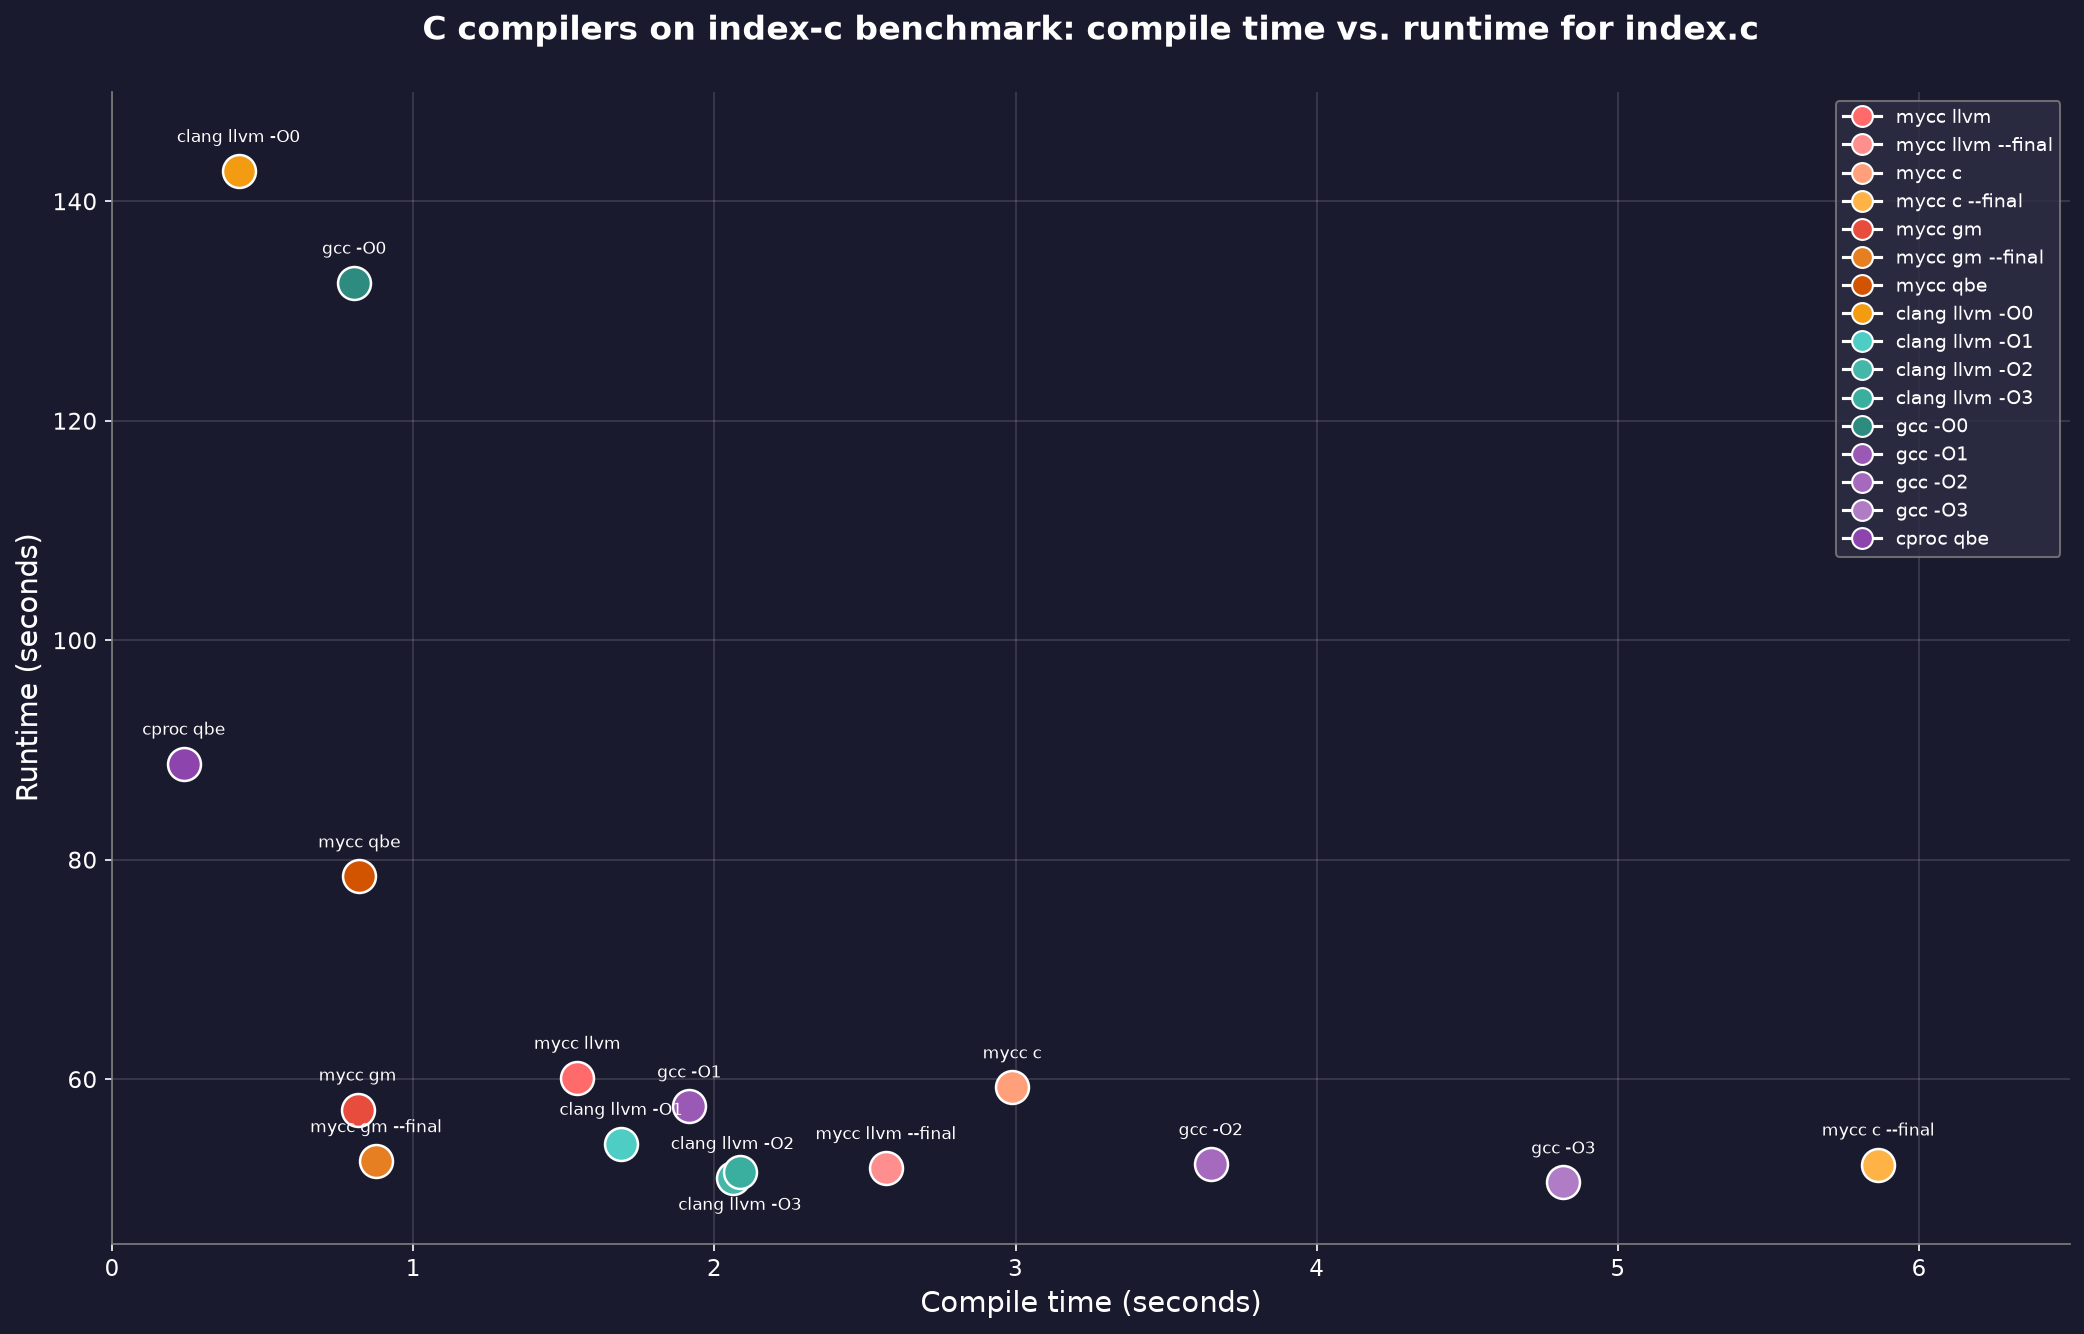
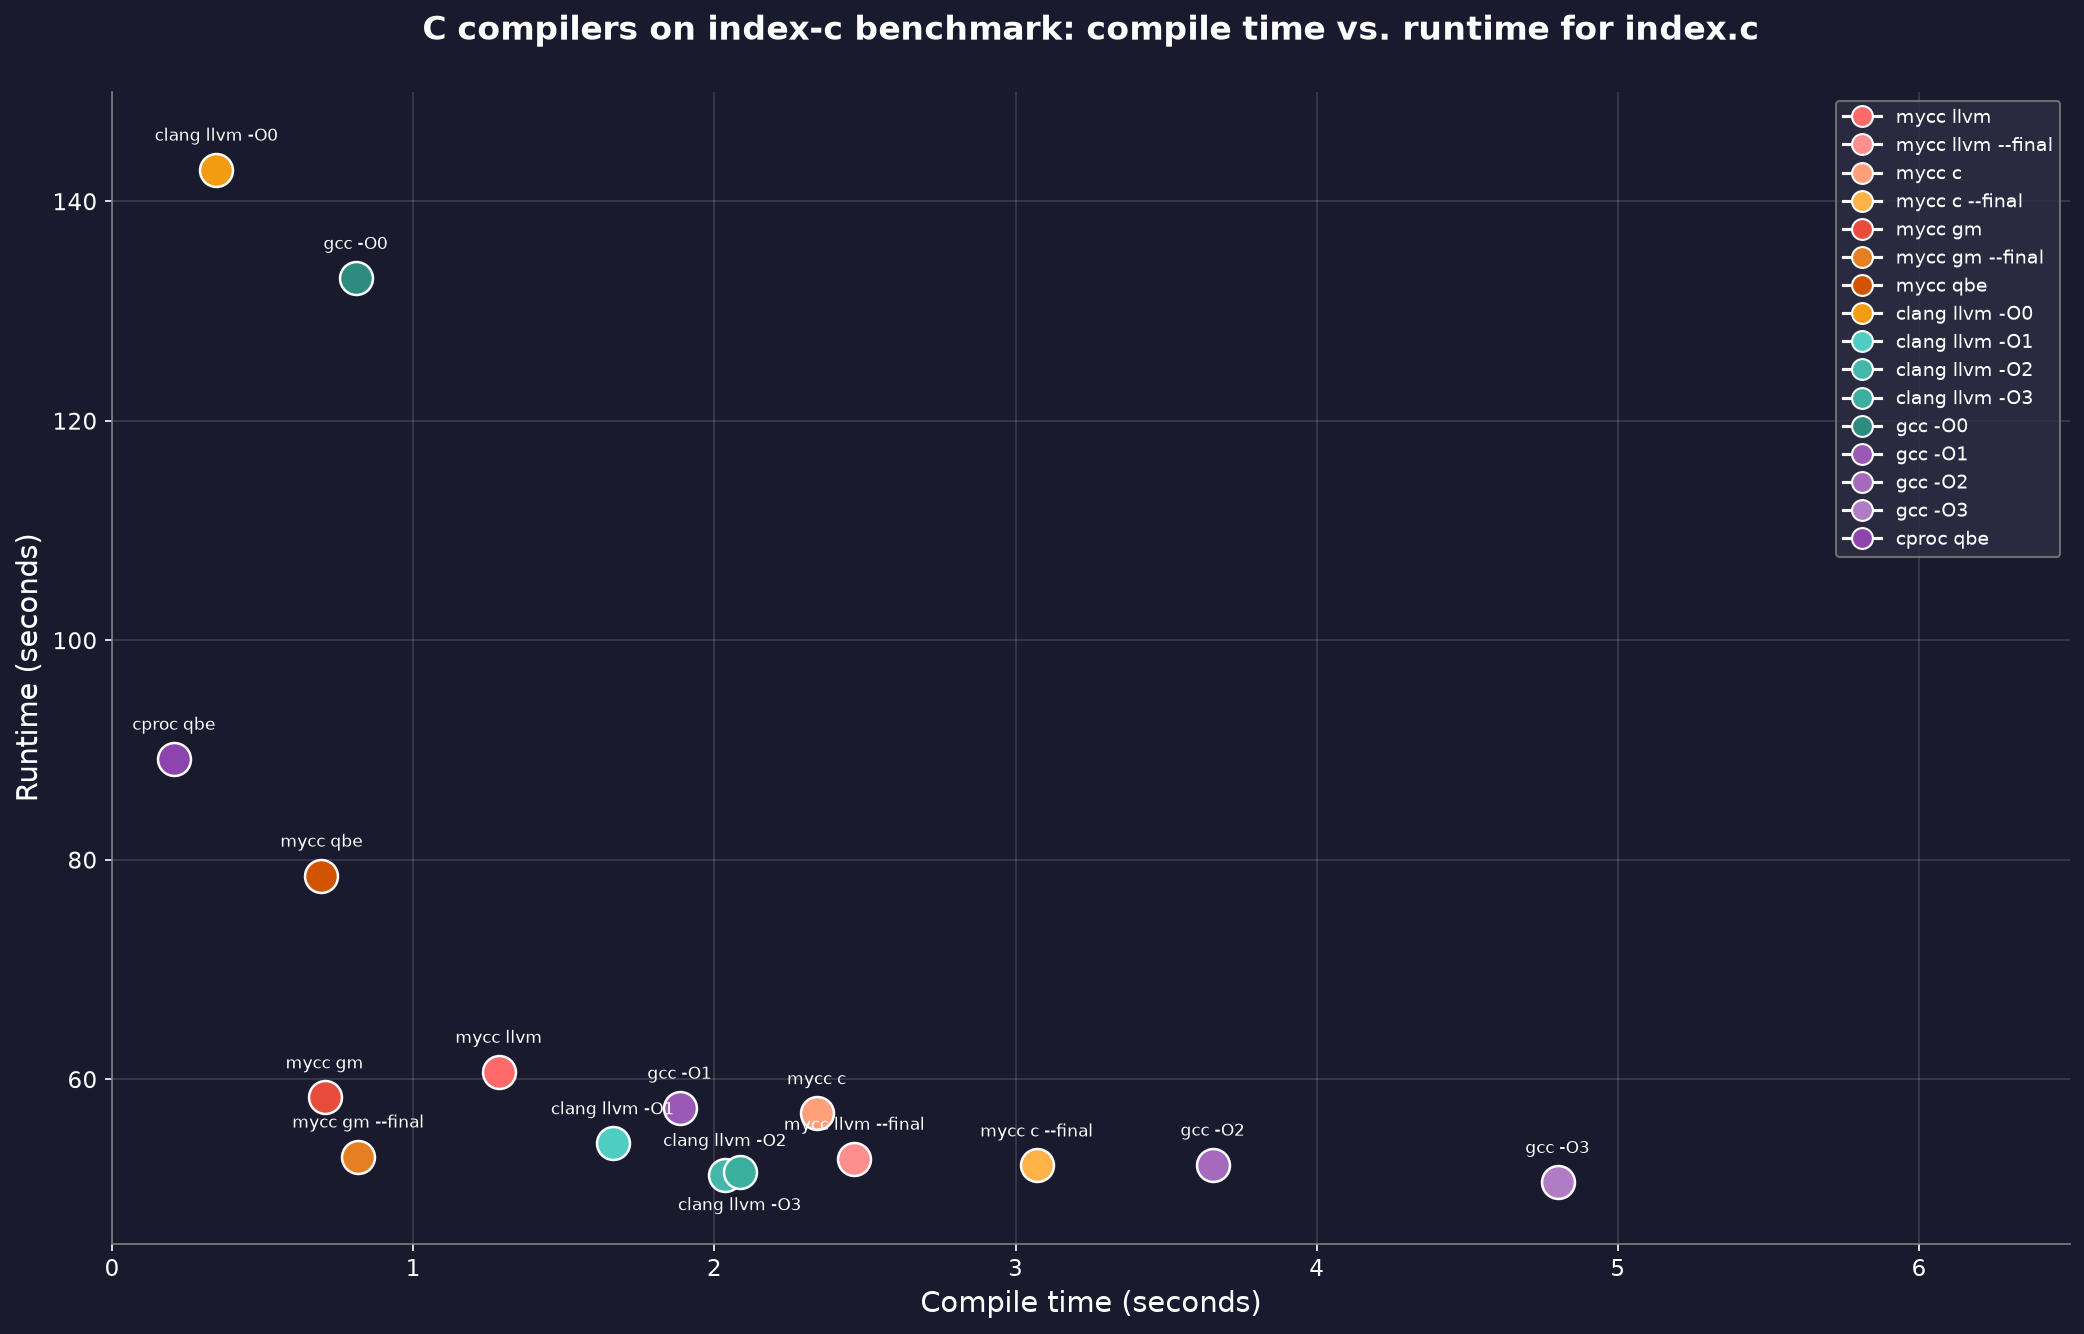
update

diff --git a/plot1.py b/plot1.py
@@ -4,22 +4,22 @@ from matplotlib.lines import Line2D
 markdown = """
 | Compiler | Backend | Flags | Compile (s) | Run (s) |
 |----------|---------|-------|-------------|---------|
-| mycc | llvm |  | 1.5451 | 60.1436 |
-| mycc | llvm | --final | 2.5695 | 51.9172 |
-| mycc | c |  | 2.9886 | 59.2757 |
-| mycc | c | --final | 5.8647 | 52.2412 |
-| mycc | gm |  | 0.8156 | 57.2475 |
-| mycc | gm | --final | 0.8767 | 52.5471 |
-| mycc | qbe |  | 0.8204 | 78.4971 |
-| clang | llvm | -O0 | 0.4201 | 142.773 |
-| clang | llvm | -O1 | 1.6904 | 54.1242 |
-| clang | llvm | -O2 | 2.0602 | 51.0166 |
-| clang | llvm | -O3 | 2.085 | 51.5749 |
-| gcc | - | -O0 | 0.8041 | 132.5994 |
-| gcc | - | -O1 | 1.9168 | 57.5374 |
-| gcc | - | -O2 | 3.6483 | 52.2808 |
-| gcc | - | -O3 | 4.8191 | 50.6065 |
-| cproc | qbe |  | 0.2372 | 88.7688 |
+| mycc | llvm |  | 1.2841 | 60.6917 |
+| mycc | llvm | --final | 2.4648 | 52.7678 |
+| mycc | c |  | 2.339 | 56.9229 |
+| mycc | c | --final | 3.0701 | 52.1554 |
+| mycc | gm |  | 0.7056 | 58.3647 |
+| mycc | gm | --final | 0.8172 | 52.9674 |
+| mycc | qbe |  | 0.6948 | 78.5655 |
+| clang | llvm | -O0 | 0.3466 | 142.9005 |
+| clang | llvm | -O1 | 1.662 | 54.1817 |
+| clang | llvm | -O2 | 2.0348 | 51.293 |
+| clang | llvm | -O3 | 2.084 | 51.548 |
+| gcc | - | -O0 | 0.8089 | 133.0356 |
+| gcc | - | -O1 | 1.8844 | 57.4204 |
+| gcc | - | -O2 | 3.6546 | 52.2313 |
+| gcc | - | -O3 | 4.7995 | 50.6496 |
+| cproc | qbe |  | 0.2044 | 89.2181 |
 """
 
 lines = markdown.strip().split('\n')

diff --git a/plot2.py b/plot2.py
@@ -4,17 +4,17 @@ from matplotlib.lines import Line2D
 markdown = """
 | Compiler | Backend | Flags | Compile (s) | Run (s) |
 |----------|---------|-------|-------------|---------|
-| myc | llvm |  | 0.9388 | 60.3338 |
-| myc | llvm | --final | 2.1202 | 51.9244 |
-| myc | c |  | 2.4502 | 59.1295 |
-| myc | c | --final | 5.4218 | 52.0605 |
-| myc | gm |  | 0.3641 | 57.1806 |
-| myc | gm | --final | 0.4604 | 52.4984 |
-| myc | qbe |  | 0.3503 | 78.3457 |
-| clang | llvm | -O0 | 0.3036 | 139.0683 |
-| clang | llvm | -O1 | 1.4524 | 54.2433 |
-| clang | llvm | -O2 | 1.8051 | 52.0981 |
-| clang | llvm | -O3 | 1.8923 | 51.5936 |
+| myc | llvm |  | 0.9457 | 60.5432 |
+| myc | llvm | --final | 2.122 | 51.8063 |
+| myc | c |  | 1.9999 | 56.9043 |
+| myc | c | --final | 2.7125 | 52.7507 |
+| myc | gm |  | 0.3644 | 58.3612 |
+| myc | gm | --final | 0.4718 | 52.9375 |
+| myc | qbe |  | 0.3517 | 77.6754 |
+| clang | llvm | -O0 | 0.1989 | 139.7218 |
+| clang | llvm | -O1 | 1.4512 | 54.3985 |
+| clang | llvm | -O2 | 1.8116 | 52.1607 |
+| clang | llvm | -O3 | 1.8923 | 51.5508 |
 """
 
 lines = markdown.strip().split('\n')

diff --git a/README.md b/README.md
@@ -20,11 +20,11 @@ docker run --rm myc-benchmarks sh -c 'for t in clang gcc cproc qbe cppgm myc-llv
 ```
 clang: clang version 23.1.5
 gcc: gcc (GCC) 16.2.1 20260810
-cppgm: cppgm 0.10.0 (host configuration: g++)
-myc-llvm: myc 0.12.3-faed679 LLVM 23.1.5 (https://github.com/kostya/myc)
-myc-qbe: myc 0.12.3-faed679 QBE fab6d40 (https://github.com/kostya/myc)
-myc-c: myc 0.12.3-faed679 C(clang version 23.1.5) (https://github.com/kostya/myc)
-myc-gm: myc 0.12.3-faed679 GM v0.10.0 (https://github.com/kostya/myc)
+cppgm: cppgm 0.10.3 (host configuration: g++)
+myc-llvm: myc 0.12.3-6ae1303 LLVM 23.1.5 (https://github.com/kostya/myc)
+myc-qbe: myc 0.12.3-6ae1303 QBE fab6d40 (https://github.com/kostya/myc)
+myc-c: myc 0.12.3-6ae1303 C(clang version 23.1.5) (https://github.com/kostya/myc)
+myc-gm: myc 0.12.3-6ae1303 GM v0.10.3 (https://github.com/kostya/myc)
 ```
 
 # 1. C compilers on index-c: (clang, gcc, mycc, cproc)
@@ -39,22 +39,22 @@ ruby run.rb
 
 | Compiler | Backend | Flags | Compile (s) | Run (s) |
 |----------|---------|-------|-------------|---------|
-| mycc | llvm |  | 1.3718 | 60.3906 |
-| mycc | llvm | --final | 2.5505 | 52.0201 |
-| mycc | c |  | 2.4711 | 56.3605 |
-| mycc | c | --final | 3.1584 | 51.7813 |
-| mycc | gm |  | 0.7872 | 58.3142 |
-| mycc | gm | --final | 0.8829 | 53.052 |
-| mycc | qbe |  | 0.7822 | 78.6111 |
-| clang | llvm | -O0 | 0.3464 | 143.7007 |
-| clang | llvm | -O1 | 1.6591 | 54.0613 |
-| clang | llvm | -O2 | 2.0215 | 51.1898 |
-| clang | llvm | -O3 | 2.0873 | 51.5187 |
-| gcc | - | -O0 | 0.8073 | 133.0161 |
-| gcc | - | -O1 | 1.8845 | 57.435 |
-| gcc | - | -O2 | 3.6576 | 52.4008 |
-| gcc | - | -O3 | 4.7835 | 50.7824 |
-| cproc | qbe |  | 0.204 | 89.0974 |
+| mycc | llvm |  | 1.2841 | 60.6917 |
+| mycc | llvm | --final | 2.4648 | 52.7678 |
+| mycc | c |  | 2.339 | 56.9229 |
+| mycc | c | --final | 3.0701 | 52.1554 |
+| mycc | gm |  | 0.7056 | 58.3647 |
+| mycc | gm | --final | 0.8172 | 52.9674 |
+| mycc | qbe |  | 0.6948 | 78.5655 |
+| clang | llvm | -O0 | 0.3466 | 142.9005 |
+| clang | llvm | -O1 | 1.662 | 54.1817 |
+| clang | llvm | -O2 | 2.0348 | 51.293 |
+| clang | llvm | -O3 | 2.084 | 51.548 |
+| gcc | - | -O0 | 0.8089 | 133.0356 |
+| gcc | - | -O1 | 1.8844 | 57.4204 |
+| gcc | - | -O2 | 3.6546 | 52.2313 |
+| gcc | - | -O3 | 4.7995 | 50.6496 |
+| cproc | qbe |  | 0.2044 | 89.2181 |
 
 ![plot](plot1.png)
 
@@ -71,17 +71,17 @@ ruby run.rb
 
 | Compiler | Backend | Flags | Compile (s) | Run (s) |
 |----------|---------|-------|-------------|---------|
-| myc | llvm |  | 0.9525 | 60.3663 |
-| myc | llvm | --final | 2.1375 | 52.1098 |
-| myc | c |  | 2.0165 | 56.3654 |
-| myc | c | --final | 2.7407 | 52.0036 |
-| myc | gm |  | 0.3764 | 58.2623 |
-| myc | gm | --final | 0.471 | 53.3131 |
-| myc | qbe |  | 0.3589 | 78.3446 |
-| clang | llvm | -O0 | 0.1991 | 138.8511 |
-| clang | llvm | -O1 | 1.4592 | 54.3862 |
-| clang | llvm | -O2 | 1.8153 | 52.386 |
-| clang | llvm | -O3 | 1.891 | 51.587 |
+| myc | llvm |  | 0.9457 | 60.5432 |
+| myc | llvm | --final | 2.122 | 51.8063 |
+| myc | c |  | 1.9999 | 56.9043 |
+| myc | c | --final | 2.7125 | 52.7507 |
+| myc | gm |  | 0.3644 | 58.3612 |
+| myc | gm | --final | 0.4718 | 52.9375 |
+| myc | qbe |  | 0.3517 | 77.6754 |
+| clang | llvm | -O0 | 0.1989 | 139.7218 |
+| clang | llvm | -O1 | 1.4512 | 54.3985 |
+| clang | llvm | -O2 | 1.8116 | 52.1607 |
+| clang | llvm | -O3 | 1.8923 | 51.5508 |
 
 ![plot](plot2.png)
 
@@ -98,16 +98,16 @@ ruby run.rb
 | IR | Compiler | IR size, Kb | Compile time | Run time |
 |:---------:|:---------:|:---------:|:---------:|:---------:|
 | llvm-ll | clang(-O3) | 1529 | 1173ms | 636ms |
-| myc | myc-llvm(default) | 486 | 235ms | 685ms |
-| myc | myc-llvm(final) | 486 | 1169ms | 622ms |
-| qbe-ssa | qbe + clang(as+linker) | 345 | 80ms + 51ms | 813ms |
-| myc | myc-qbe(default) | 486 | 511ms | 852ms |
-| c | clang(-O3) | 128 | 1237ms | 627ms |
-| myc | myc-c(default) | 486 | 1451ms | 635ms |
-| myc | myc-c(final) | 486 | 1649ms | 624ms |
-| lowir | cppgm(-O3) | 1157 | 148ms | 649ms |
-| myc | myc-gm(default) | 486 | 138ms | 682ms |
-| myc | myc-gm(final) | 486 | 186ms | 675ms |
+| myc | myc-llvm(default) | 486 | 233ms | 683ms |
+| myc | myc-llvm(final) | 486 | 1172ms | 622ms |
+| qbe-ssa | qbe + clang(as+linker) | 345 | 82ms + 52ms | 808ms |
+| myc | myc-qbe(default) | 486 | 464ms | 852ms |
+| c | clang(-O3) | 128 | 1235ms | 623ms |
+| myc | myc-c(default) | 486 | 1457ms | 632ms |
+| myc | myc-c(final) | 486 | 1634ms | 627ms |
+| lowir | cppgm(-O3) | 1157 | 151ms | 656ms |
+| myc | myc-gm(default) | 486 | 136ms | 682ms |
+| myc | myc-gm(final) | 486 | 178ms | 672ms |
 
 # 4. Myc examples: (myc)
 
@@ -119,46 +119,46 @@ ruby run.rb
 
 | Benchmark | Backend | Compile | Run |
 |:----------|:-------:|--------:|----:|
-| mandel.myc | myc-llvm | 241ms | 684ms |
-| | myc-qbe | 520ms | 852ms |
-| | myc-c | 1470ms | 636ms |
-| | myc-gm | 143ms | 681ms |
-| | myc-llvm-final | 1189ms | 621ms |
-| | myc-qbe-final | 522ms | 853ms |
-| | myc-c-final | 1656ms | 626ms |
-| | myc-gm-final | 192ms | 674ms |
-| bf.myc | myc-llvm | 54ms | 2449ms |
-| | myc-qbe | 41ms | 2697ms |
-| | myc-c | 78ms | 2584ms |
-| | myc-gm | 39ms | 6074ms |
-| | myc-llvm-final | 64ms | 2549ms |
-| | myc-qbe-final | 42ms | 2691ms |
-| | myc-c-final | 83ms | 2781ms |
-| | myc-gm-final | 42ms | 1596ms |
-| loop.myc | myc-llvm | 48ms | 206ms |
-| | myc-qbe | 40ms | 2437ms |
+| mandel.myc | myc-llvm | 239ms | 682ms |
+| | myc-qbe | 506ms | 853ms |
+| | myc-c | 1463ms | 636ms |
+| | myc-gm | 142ms | 681ms |
+| | myc-llvm-final | 1181ms | 621ms |
+| | myc-qbe-final | 512ms | 852ms |
+| | myc-c-final | 1648ms | 623ms |
+| | myc-gm-final | 191ms | 673ms |
+| bf.myc | myc-llvm | 54ms | 2432ms |
+| | myc-qbe | 42ms | 2693ms |
+| | myc-c | 79ms | 2601ms |
+| | myc-gm | 39ms | 6069ms |
+| | myc-llvm-final | 65ms | 2548ms |
+| | myc-qbe-final | 41ms | 2694ms |
+| | myc-c-final | 83ms | 2745ms |
+| | myc-gm-final | 42ms | 1593ms |
+| loop.myc | myc-llvm | 48ms | 201ms |
+| | myc-qbe | 39ms | 2437ms |
 | | myc-c | 62ms | 185ms |
-| | myc-gm | 36ms | 327ms |
-| | myc-llvm-final | 52ms | 191ms |
-| | myc-qbe-final | 39ms | 2437ms |
+| | myc-gm | 37ms | 327ms |
+| | myc-llvm-final | 52ms | 192ms |
+| | myc-qbe-final | 40ms | 2439ms |
 | | myc-c-final | 65ms | 139ms |
-| | myc-gm-final | 37ms | 318ms |
-| loop.c | myc-llvm | 85ms | 199ms |
-| | myc-qbe | 86ms | 2437ms |
-| | myc-c | 107ms | 185ms |
-| | myc-gm | 81ms | 321ms |
-| | myc-llvm-final | 86ms | 217ms |
-| | myc-qbe-final | 84ms | 205ms |
-| | myc-c-final | 84ms | 200ms |
-| | myc-gm-final | 85ms | 201ms |
-| sieve.c | myc-llvm | 99ms | 288ms |
-| | myc-qbe | 99ms | 291ms |
-| | myc-c | 123ms | 289ms |
+| | myc-gm-final | 37ms | 317ms |
+| loop.c | myc-llvm | 86ms | 200ms |
+| | myc-qbe | 85ms | 2437ms |
+| | myc-c | 106ms | 164ms |
+| | myc-gm | 81ms | 323ms |
+| | myc-llvm-final | 85ms | 216ms |
+| | myc-qbe-final | 85ms | 199ms |
+| | myc-c-final | 85ms | 200ms |
+| | myc-gm-final | 85ms | 205ms |
+| sieve.c | myc-llvm | 99ms | 290ms |
+| | myc-qbe | 98ms | 289ms |
+| | myc-c | 122ms | 287ms |
 | | myc-gm | 94ms | 299ms |
-| | myc-llvm-final | 99ms | 290ms |
-| | myc-qbe-final | 99ms | 286ms |
-| | myc-c-final | 99ms | 287ms |
-| | myc-gm-final | 99ms | 289ms |
+| | myc-llvm-final | 99ms | 287ms |
+| | myc-qbe-final | 98ms | 290ms |
+| | myc-c-final | 98ms | 284ms |
+| | myc-gm-final | 98ms | 287ms |
 
 # 5. Myc-GM vs Clang in index-c. Detailed.
 
@@ -168,60 +168,60 @@ cd 5.myc-gm-vs-clang/
 ruby run.rb
 ```
 
-compile mycc --backend gm --final in 0.884659357
-compile clang -O3 in 2.083505013
+compile mycc --backend gm --final in 0.817688208
+compile clang -O3 in 2.106630775
 
 | # | test | mycc --backend gm --final | clang -O3 | Δ (s) | slowdown (%) | status |
 |---|---|---|---|---|---|---|
-| 1 | Etc::GameOfLife | 1.407 | 1.085 | +0.322 | +29.7% | OK |
-| 2 | Etc::TextRaytracer | 1.265 | 0.977 | +0.288 | +29.5% | OK |
-| 3 | Base64::Decode | 1.362 | 1.066 | +0.296 | +27.8% | OK |
-| 4 | Compress::HuffDecode | 0.604 | 0.491 | +0.113 | +23.0% | OK |
-| 5 | Etc::NeuralNet | 1.223 | 0.997 | +0.226 | +22.7% | OK |
-| 6 | Compress::BWTEncode | 1.271 | 1.040 | +0.231 | +22.2% | OK |
-| 7 | Template::Parse | 1.138 | 1.022 | +0.116 | +11.4% | OK |
-| 8 | Distance::NGram | 1.134 | 1.022 | +0.112 | +11.0% | OK |
-| 9 | CLBG::Spectralnorm | 1.118 | 1.016 | +0.102 | +10.0% | OK |
-| 10 | Maze::AStar | 1.154 | 1.055 | +0.099 | +9.4% | OK |
-| 11 | Distance::Jaro | 1.041 | 0.952 | +0.089 | +9.3% | OK |
-| 12 | Brainfuck::Recursion | 1.703 | 1.568 | +0.135 | +8.6% | OK |
-| 13 | Sort::Quick | 1.074 | 0.997 | +0.077 | +7.7% | OK |
-| 14 | Compress::LZWEncode | 1.291 | 1.200 | +0.091 | +7.6% | OK |
-| 15 | Graph::BFS | 1.044 | 0.975 | +0.069 | +7.1% | OK |
-| 16 | Maze::BFS | 1.102 | 1.030 | +0.072 | +7.0% | OK |
-| 17 | Compress::LZWDecode | 1.124 | 1.056 | +0.068 | +6.4% | OK |
-| 18 | Json::ParseMapping | 1.043 | 0.989 | +0.054 | +5.5% | OK |
-| 19 | Json::ParseDom | 1.063 | 1.009 | +0.054 | +5.4% | OK |
+| 1 | Etc::GameOfLife | 1.401 | 1.063 | +0.338 | +31.8% | OK |
+| 2 | Base64::Decode | 1.383 | 1.065 | +0.318 | +29.9% | OK |
+| 3 | Etc::TextRaytracer | 1.268 | 0.977 | +0.291 | +29.8% | OK |
+| 4 | Etc::NeuralNet | 1.223 | 0.999 | +0.224 | +22.4% | OK |
+| 5 | Compress::BWTEncode | 1.269 | 1.047 | +0.222 | +21.2% | OK |
+| 6 | Distance::Jaro | 1.080 | 0.951 | +0.129 | +13.6% | OK |
+| 7 | Template::Parse | 1.155 | 1.024 | +0.131 | +12.8% | OK |
+| 8 | Compress::LZWDecode | 1.180 | 1.055 | +0.125 | +11.8% | OK |
+| 9 | Distance::NGram | 1.144 | 1.047 | +0.097 | +9.3% | OK |
+| 10 | Maze::AStar | 1.149 | 1.053 | +0.096 | +9.1% | OK |
+| 11 | Compress::LZWEncode | 1.293 | 1.190 | +0.103 | +8.7% | OK |
+| 12 | Graph::BFS | 1.056 | 0.975 | +0.081 | +8.3% | OK |
+| 13 | Maze::BFS | 1.111 | 1.030 | +0.081 | +7.9% | OK |
+| 14 | Json::ParseMapping | 1.060 | 0.984 | +0.076 | +7.7% | OK |
+| 15 | Json::ParseDom | 1.083 | 1.007 | +0.076 | +7.5% | OK |
+| 16 | Sort::Quick | 1.081 | 1.008 | +0.073 | +7.2% | OK |
+| 17 | CLBG::Spectralnorm | 1.073 | 1.015 | +0.058 | +5.7% | OK |
+| 18 | Compress::HuffDecode | 0.521 | 0.493 | +0.028 | +5.7% | OK |
+| 19 | Brainfuck::Array | 1.387 | 1.314 | +0.073 | +5.6% | OK |
 | 20 | Sort::Merge | 0.816 | 0.781 | +0.035 | +4.5% | OK |
-| 21 | Calculator::Ast | 1.043 | 0.999 | +0.044 | +4.4% | OK |
-| 22 | Brainfuck::Array | 1.369 | 1.313 | +0.056 | +4.3% | OK |
-| 23 | Graph::DFS | 1.016 | 0.976 | +0.040 | +4.1% | OK |
-| 24 | Maze::Generator | 1.048 | 1.011 | +0.037 | +3.7% | OK |
-| 25 | Sort::Self | 1.105 | 1.083 | +0.022 | +2.0% | OK |
-| 26 | Etc::Words | 1.058 | 1.037 | +0.021 | +2.0% | OK |
-| 27 | Compress::ArithEncode | 0.969 | 0.950 | +0.019 | +2.0% | OK |
+| 21 | Maze::Generator | 1.052 | 1.009 | +0.043 | +4.3% | OK |
+| 22 | Compress::ArithEncode | 0.981 | 0.948 | +0.033 | +3.5% | OK |
+| 23 | Graph::DFS | 1.012 | 0.978 | +0.034 | +3.5% | OK |
+| 24 | Sort::Self | 1.112 | 1.080 | +0.032 | +3.0% | OK |
+| 25 | Compress::ArithDecode | 0.986 | 0.963 | +0.023 | +2.4% | OK |
+| 26 | Etc::CacheSimulation | 1.029 | 1.006 | +0.023 | +2.3% | OK |
+| 27 | Calculator::Interpreter | 1.062 | 1.040 | +0.022 | +2.1% | OK |
 | 28 | CLBG::Mandelbrot | 1.060 | 1.041 | +0.019 | +1.8% | OK |
-| 29 | Compress::ArithDecode | 0.972 | 0.955 | +0.017 | +1.8% | OK |
-| 30 | Etc::CacheSimulation | 1.007 | 0.996 | +0.011 | +1.1% | OK |
-| 31 | Graph::AStar | 0.835 | 0.829 | +0.006 | +0.7% | OK |
-| 32 | Matmul::T4 | 1.053 | 1.048 | +0.005 | +0.5% | OK |
-| 33 | Matmul::T16 | 0.985 | 0.981 | +0.004 | +0.4% | OK |
-| 34 | Matmul::T8 | 0.996 | 0.992 | +0.004 | +0.4% | OK |
-| 35 | Matmul::Single | 1.039 | 1.037 | +0.002 | +0.2% | OK |
-| 36 | Etc::LogParser | 0.784 | 0.789 | -0.005 | -0.6% | OK |
-| 37 | CSV::Parse | 0.970 | 0.981 | -0.011 | -1.1% | OK |
-| 38 | Calculator::Interpreter | 1.032 | 1.044 | -0.012 | -1.1% | OK |
-| 39 | Template::Regex | 1.106 | 1.119 | -0.013 | -1.2% | OK |
-| 40 | Compress::BWTDecode | 1.041 | 1.067 | -0.026 | -2.4% | OK |
-| 41 | Json::Generate | 0.958 | 0.991 | -0.033 | -3.3% | OK |
-| 42 | Hash::CRC32 | 0.216 | 0.224 | -0.008 | -3.6% | OK |
-| 43 | CLBG::Nbody | 1.015 | 1.053 | -0.038 | -3.6% | OK |
-| 44 | Base64::Encode | 1.002 | 1.040 | -0.038 | -3.7% | OK |
-| 45 | CLBG::Fannkuchredux | 1.045 | 1.090 | -0.045 | -4.1% | OK |
-| 46 | Binarytrees::Obj | 1.001 | 1.080 | -0.079 | -7.3% | OK |
-| 47 | Compress::HuffEncode | 1.207 | 1.312 | -0.105 | -8.0% | OK |
-| 48 | Binarytrees::Arena | 1.631 | 1.885 | -0.254 | -13.5% | OK |
-| 49 | Etc::Sieve | 1.098 | 1.493 | -0.395 | -26.5% | OK |
-| 50 | Hash::SHA256 | 0.327 | 1.033 | -0.706 | -68.3% | OK |
+| 29 | Etc::Words | 1.057 | 1.039 | +0.018 | +1.7% | OK |
+| 30 | Calculator::Ast | 1.026 | 1.011 | +0.015 | +1.5% | OK |
+| 31 | Graph::AStar | 0.838 | 0.831 | +0.007 | +0.8% | OK |
+| 32 | Matmul::T16 | 0.987 | 0.981 | +0.006 | +0.6% | OK |
+| 33 | Matmul::T4 | 1.055 | 1.050 | +0.005 | +0.5% | OK |
+| 34 | Matmul::T8 | 0.996 | 0.995 | +0.001 | +0.1% | OK |
+| 35 | Matmul::Single | 1.036 | 1.038 | -0.002 | -0.2% | OK |
+| 36 | Compress::BWTDecode | 1.054 | 1.072 | -0.018 | -1.7% | OK |
+| 37 | Etc::LogParser | 0.777 | 0.795 | -0.018 | -2.3% | OK |
+| 38 | Base64::Encode | 1.002 | 1.038 | -0.036 | -3.5% | OK |
+| 39 | CLBG::Nbody | 1.016 | 1.053 | -0.037 | -3.5% | OK |
+| 40 | Hash::CRC32 | 0.216 | 0.225 | -0.009 | -4.0% | OK |
+| 41 | Binarytrees::Arena | 1.653 | 1.726 | -0.073 | -4.2% | OK |
+| 42 | CSV::Parse | 0.934 | 0.978 | -0.044 | -4.5% | OK |
+| 43 | Template::Regex | 1.032 | 1.082 | -0.050 | -4.6% | OK |
+| 44 | Json::Generate | 0.964 | 1.014 | -0.050 | -4.9% | OK |
+| 45 | CLBG::Fannkuchredux | 1.028 | 1.089 | -0.061 | -5.6% | OK |
+| 46 | Binarytrees::Obj | 1.016 | 1.082 | -0.066 | -6.1% | OK |
+| 47 | Brainfuck::Recursion | 1.466 | 1.568 | -0.102 | -6.5% | OK |
+| 48 | Compress::HuffEncode | 1.186 | 1.334 | -0.148 | -11.1% | OK |
+| 49 | Etc::Sieve | 1.098 | 1.494 | -0.396 | -26.5% | OK |
+| 50 | Hash::SHA256 | 0.329 | 1.016 | -0.687 | -67.6% | OK |
 
-Summary: myc-gm=52.965s clang=51.777s diff=+1.188s (+2.3%)
+Summary: myc-gm=52.793s clang=51.654s diff=+1.139s (+2.2%)
